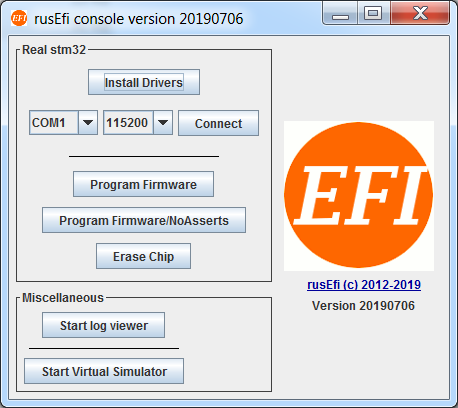
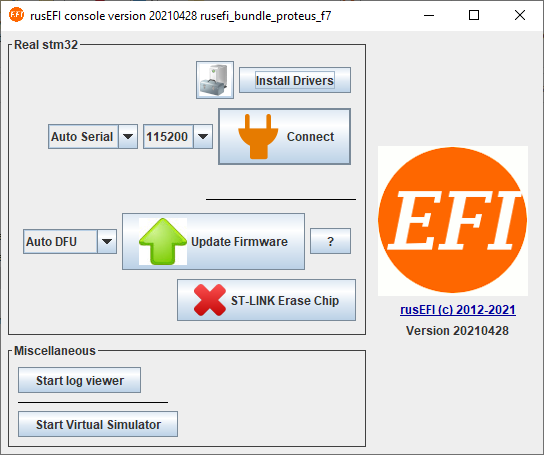
Update docs (#136)
* update docs surrounding firmware update

* add note about MSD

* fix header format

* don't neep separators

diff --git a/Download.md b/Download.md
@@ -6,17 +6,33 @@ rusEFI offers complete software download bundles for multiple supported microcon
 
 [microRusEFI 0.4 and newer (STM32F4)](https://github.com/rusefi/rusefi/releases/latest/download/rusefi_bundle_mre_f4.zip)
 
-[Frankenso stm32f407 bundle](https://github.com/rusefi/rusefi/releases/latest/download/rusefi_bundle.zip)
+[Proteus 0.6 (STM32F7)](https://github.com/rusefi/rusefi/releases/latest/download/rusefi_bundle_proteus_f7.zip)
 
-[Proteus 0.3 and newer (STM32F4)](https://github.com/rusefi/rusefi/releases/latest/download/rusefi_bundle_proteus_f4.zip)
+[Proteus 0.3-0.5 (STM32F4)](https://github.com/rusefi/rusefi/releases/latest/download/rusefi_bundle_proteus_f4.zip)
+
+[STM32 Discovery](https://github.com/rusefi/rusefi/releases/latest/download/rusefi_bundle_default.zip)
+
+### Hellen Family Boards
+
+[121 Nissan](https://github.com/rusefi/rusefi/releases/latest/download/rusefi_bundle_hellen121nissan.zip)
+
+[121 VAG](https://github.com/rusefi/rusefi/releases/latest/download/rusefi_bundle_hellen121vag.zip)
+
+[128](https://github.com/rusefi/rusefi/releases/latest/download/rusefi_bundle_hellen128.zip)
+
+[72](https://github.com/rusefi/rusefi/releases/latest/download/rusefi_bundle_hellen72.zip)
+
+[NA6](https://github.com/rusefi/rusefi/releases/latest/download/rusefi_bundle_hellenNA6.zip)
 
 ### Uncommon Boards
+
+[Frankenso stm32f407 bundle](https://github.com/rusefi/rusefi/releases/latest/download/rusefi_bundle.zip)
 
 [Frankenso PnP Miata NA6 bundle](https://github.com/rusefi/rusefi/releases/latest/download/rusefi_bundle_frankenso_na6.zip)
 
 [microRusEFI 0.3 and older (STM32F7)](https://github.com/rusefi/rusefi/releases/latest/download/rusefi_bundle_mre_f7.zip)
 
-[Proteus v0.2 and older (STM32F7)](https://github.com/rusefi/rusefi/releases/latest/download/rusefi_bundle_proteus_f7.zip)
+[Proteus 0.2 and older (STM32F7)](https://github.com/rusefi/rusefi/releases/latest/download/rusefi_bundle_proteus_legacy.zip)
 
 # Advanced
 

diff --git a/HOWTO/HOWTO-quick-start.md b/HOWTO/HOWTO-quick-start.md
@@ -2,7 +2,7 @@
 
 1. [Download the rusEFI bundle](Download) for your hardware. 
 
-2. Uncompress the bundle and launch the rusEFI console. Hit the "Install Drivers" button to install the Virtual Com Port and ST-Link drivers. If necessary the bundle will also help you install java run-time.
+2. Extract the bundle and launch the rusEFI console. Hit the "Install Drivers" button to install the Virtual Com Port and ST-Link drivers. If necessary the bundle will also help you install java run-time.
 
 ![console](FAQ/images/rusEFI_console_start_screen.png)
 
@@ -18,6 +18,9 @@
 
 ## Once you get your hardware:
 
+### Install firmware on Frankenstein, Frankenso, and Discovery
+
+/If you have any other rusEFI board, such as microRusEFI, Proteus, or Hellen, your board comes with firmware installed, and you can skip to "Update Firmware" ./
 
 1. Connect the stm32f4discovery ('brain board') to the IO board, place jumpers like XYZ, then connect to a PC with a mini-USB cable. Mini-USB cable is used to power and to program the brain board. See below procedure found [here](http://rusefi.com/forum/viewtopic.php?f=5&t=210&start=23)
 
@@ -31,7 +34,11 @@
 ![STLink Start](Images/st_link_start.png)
 * After you have programmed the chip, you should click '''Target --> Disconnect''' and hit the '''black button''' on the discovery board '''to reset''' the firmware. After you hit the reset button, you should expect all four LEDs to blink once and then you should see just the '''blue LED blinking'''. If all is good, proceed to the Dev Console below.
 
-* Another way to upload firmware is using a [DFU file](HOWTO-DFU)
+### Update Firmware
+
+Now that your board has rusEFI firmware installed on it, the firmware can be updated without using STLink software. You should ensure your firmware is up to date before proceeding.
+
+[How to update your firmware](HOWTO-Update-Firmware)
 
 ## rusEFI Console
 

diff --git a/HOWTO/HOWTO-Update-Firmware.md b/HOWTO/HOWTO-Update-Firmware.md
@@ -1,6 +1,34 @@
-<!-- this URL us hard-coded in rusEFI console splash screen MAKE SURE NOT TO RENAME -->
+<!-- this URL is hard-coded in rusEFI console splash screen MAKE SURE NOT TO RENAME -->
 
-For DFU see [HOWTO-DFU](HOWTO-DFU)
+[Download the rusEFI bundle](Download) for your hardware. 
 
+## Windows:
+Launch [rusEFI Console](Console). You can find it in the bundle you downloaded, in the "console" folder.
 
-ST-LINK is an advanced mode of firmware update which requires ST-LINK device, either external or build-in like on Discovery/Nucleo board.
+Click the "Update Firmware" button.
+
+## Linux:
+The canonical way to update the firmware on Linux is with DFU.
+
+You will need dfu-util:
+```
+# Debian/Ubuntu
+sudo apt install dfu-util
+# Arch/Manjaro
+sudo pacman -Syu dfu-util
+```
+
+Once you have dfu-util, you can run this from the extracted bundle directory:
+
+```
+java -jar console/rusefi_console.jar reboot_dfu
+
+dfu-util -a 0 -D rusefi.dfu
+
+```
+
+## More Information
+
+For more about DFU see [HOWTO-DFU](HOWTO-DFU)
+
+ST-LINK is an advanced mode of firmware update which requires ST-LINK device, either external, or built-in like on Discovery/Nucleo board.

diff --git a/HOWTO/HOWTO-create-tunerstudio-project.md b/HOWTO/HOWTO-create-tunerstudio-project.md
@@ -3,7 +3,9 @@ Tunerstudio is a tuning application needed while working with rusEFI. Here is ho
 ![First project](FAQ/images/simulator/TCP_first_project.png)
 
 
-In order to create a rusEFI project you need a rusefiSOMETHING.ini file from you [rusEFI bundle](https://github.com/rusefi/rusefi/wiki/Download).
+In order to create a rusEFI project you need a rusefiSOMETHING.ini file from your [rusEFI bundle](https://github.com/rusefi/rusefi/wiki/Download).
+
+Your rusEFI board should also present itself as a USB storage device to your computer, containing the .ini file you need. This is the most foolproof method of making sure you have the correct .ini file.
 
 ![Menu](FAQ/images/simulator/TunerStudio_other_browse.png)
 

diff --git a/HOWTO/HOWTO-DFU.md b/HOWTO/HOWTO-DFU.md
@@ -10,6 +10,3 @@ used to program brand new stm32 chips which do not have a running version of rus
 [HOWTO DFU video](https://www.youtube.com/watch?v=VdvXYgv_acg)
 
 On a STM32F4 Discovery, entering DFU mode requires putting a jumper between the pins VDD and BOOT0, then powering or resetting the board.
-
-If you're running Linux, the tool `dfu-util` works great for uploading DFUs.
-example: `dfu-util -a 0 -D rusefi.dfu`

diff --git a/HOWTO/Useful-Linux-Commands.md b/HOWTO/Useful-Linux-Commands.md
@@ -1,11 +1,7 @@
+###List USB devices. This is useful for diagnosing driver issues.
+
 ```
-sudo apt-get install dfu-util
 lsusb
 lsusb | grep 'STMicroelectronics Virtual COM Port'
 lsusb | grep DFU
-
-java -jar rusefi_console.jar reboot_dfu
-
-dfu-util -a 0 -D rusefi.dfu
-
 ```
